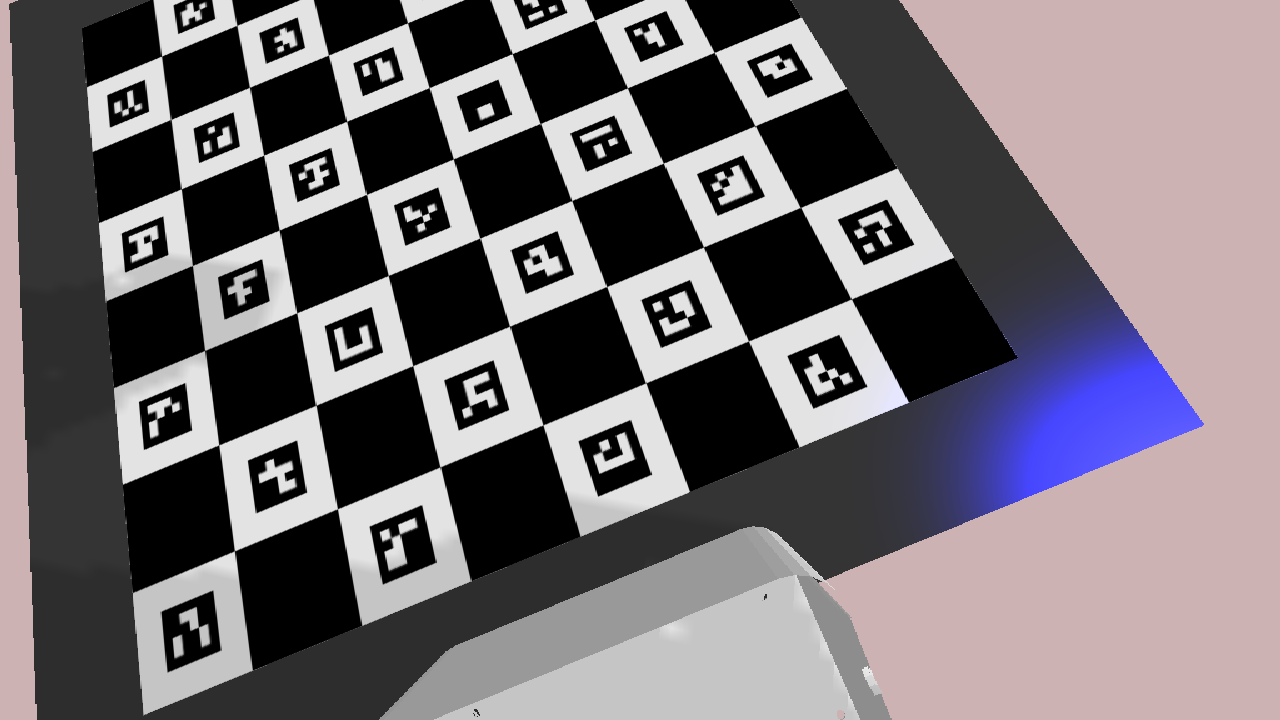
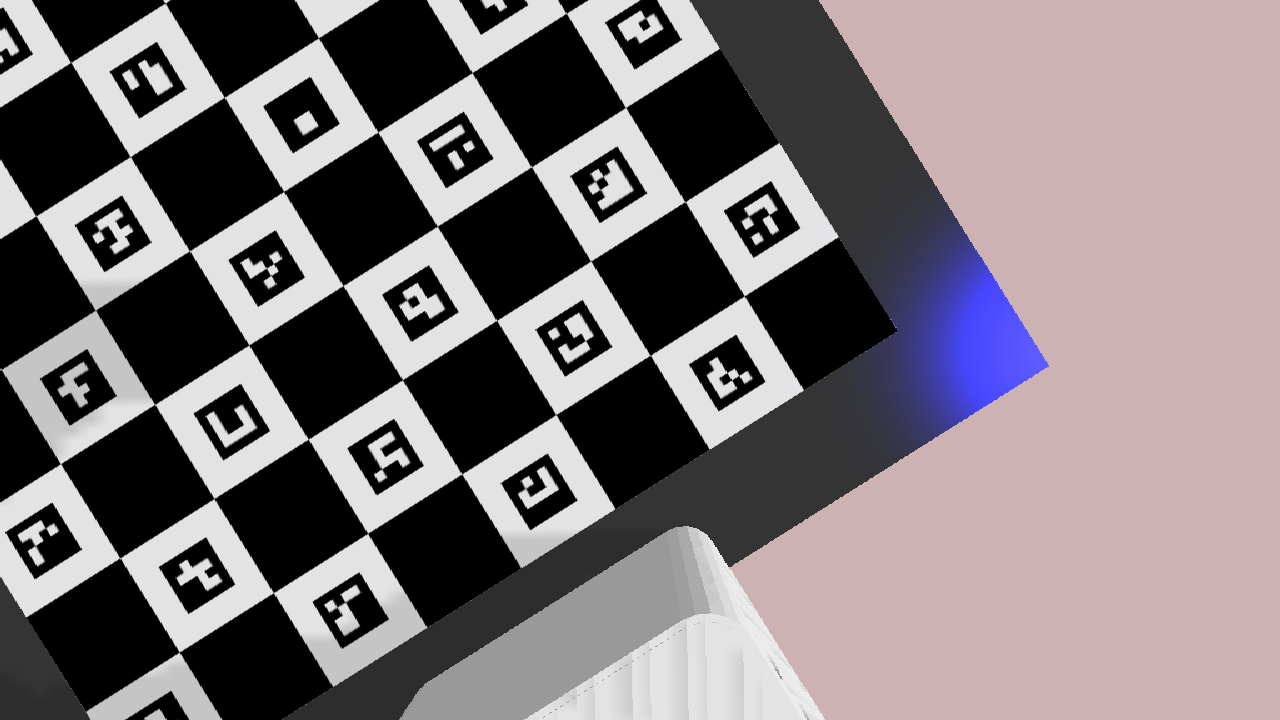
base checker detection

diff --git a/machines/02_dobot/camera.py b/machines/02_dobot/camera.py
@@ -26,11 +26,11 @@ class Camera:
             farVal=100
         )
 
-    def set_pos(self, pos, up_vector):
+    def set_pos(self, pos, up_vector, delta):
         pos = np.array(pos)
         self.viewMatrix = pb.computeViewMatrix(
             cameraEyePosition=pos,
-            cameraTargetPosition=pos - [0, .2, 1],
+            cameraTargetPosition=pos + delta,
             cameraUpVector=up_vector
         )
 
@@ -47,6 +47,7 @@ class Camera:
             'renderer': pb.ER_BULLET_HARDWARE_OPENGL
         }
         return pb.getCameraImage(**params)[2]
+    
     
     def get_arucos(self, frame, prt=False):
         frame = frame[:, :, :3].astype(np.uint8)
@@ -83,9 +84,14 @@ class Camera:
             gray,
             board
         )
-        rvec, tvec, _ = aruco.estimatePoseSingleMarkers(corners, 0.05, mtx, dist)
+        res, rvec, tvec = aruco.estimatePoseCharucoBoard(
+            corners_checker, ids_checker, board,
+            mtx, dist,
+            np.zeros(3), np.zeros(3)
+        )
+        
         if prt:
-            rvec, tvec = map(np.squeeze, (rvec, tvec))
+            rvec, tvec = rvec.reshape(1, -1), tvec.reshape(1, -1)
             print(rvec / np.linalg.norm(rvec, axis=1, keepdims=True) * np.sign(rvec[:, :1]))
             print()
             for rvec_ in rvec:
@@ -94,10 +100,14 @@ class Camera:
             print("---------------------------------")
             
             print(tvec)
-            return
-        (rvec-tvec).any()
+            return frame
+        
+        cv2.drawFrameAxes(frame, mtx, dist, rvec, tvec, 0.4)
+        aruco.drawDetectedMarkers(frame, corners)
+        
+        rvec, tvec, _ = aruco.estimatePoseSingleMarkers(corners, 0.2, mtx, dist)
+        
         for i in range(rvec.shape[0]):
             cv2.drawFrameAxes(frame, mtx, dist, rvec[i], tvec[i], 0.03)
-            aruco.drawDetectedMarkers(frame, corners)
             
         return frame        

diff --git a/machines/02_dobot/model.py b/machines/02_dobot/model.py
@@ -69,7 +69,8 @@ print()
 while True:
     cam.set_pos(
         pb.getLinkState(robot, 3)[0],
-        transform_vector(robot, [-1, 0, 0])
+        transform_vector(robot, [-1, 0, 0]),
+        transform_vector(robot, [.1, -1, 0]),
     )
     frame = cam.get_frame()
     img = cam.get_arucos(frame)
